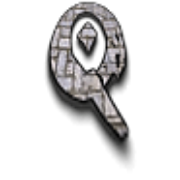
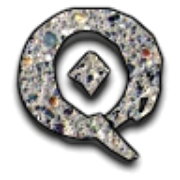
Add introductory content.

diff --git a/index.html b/index.html
@@ -22,9 +22,31 @@
 <body>
   <main>
     <article>
-      <h1>Quendor</h1>
+      <h1>
+        <img src="./assets/images/quendor-title.png" width="543" height="96" alt="Quendor">
+      </h1>
 
-      <p>Content Coming Soon</p>
+      <p>
+        My goal with Quendor is creating a working emulator of the <a href="https://en.wikipedia.org/wiki/Z-machine">Z-Machine</a> and an interpreter for <a href="http://fileformats.archiveteam.org/wiki/Z-code">zcode</a> programs that will run on that machine. This means I will be building an <a href="http://www.ifwiki.org/index.php/Interpreter">interactive fiction interpreter</a>. Depending on your age and/or nostalgia factor, you might better know "interactive fiction" by the name "text adventure."
+      </p>
+
+      <p class="note">
+        Fun fact for nostalgia retrogamers: the term <a href="https://en.wikipedia.org/wiki/Interactive_fiction">"interactive fiction"</a> was likely first used by <a href="https://en.wikipedia.org/wiki/Robert_Lafore">Robert Lafore</a>.
+      </p>
+
+      <p>
+        The Z-Machine was originally created by a company called <a href="https://en.wikipedia.org/wiki/Infocom">Infocom</a> back in the late 1970s to play their adventure game <a href="https://en.wikipedia.org/wiki/Zork"><em>Zork</em></a> on microcomputers (which were the first <a href="https://en.wikipedia.org/wiki/Personal_computer">"personal computers"</a> with a side evolution into <a href="https://en.wikipedia.org/wiki/Home_computer">"home computers"</a>). Eventually, this Z-Machine was used to play many text adventure games created by the same company throughout the 1980s.
+      </p>
+
+      <img class="prop50" src="./assets/images/infocom-games.jpg" width="640" height="480" alt="Infocom logo with backsplash of their games">
+
+      <p>
+        Starting in the 1990s, after Infocom was acquired by <a href="https://en.wikipedia.org/wiki/Activision">Activision</a> and effectively dissolved, hobbyists reverse-engineered the Z-Machine and games have been created for it ever since.
+      </p>
+
+      <p class="note">
+        These "games" are often referred to as "stories," keeping with the focus on interactive <em>fiction</em>.
+      </p>
     </article>
   </main>
 </body>

diff --git a/styles/content.css b/styles/content.css
@@ -12,3 +12,87 @@ article {
   padding: 0 var(--content-padding);
   margin: 2rem auto 3rem;
 }
+
+em {
+  font-weight: 400;
+  font-style: italic;
+}
+
+strong {
+  font-weight: 700;
+  font-style: normal;
+}
+
+strong em,
+em strong {
+  font-weight: 700;
+  font-style: italic;
+}
+
+p,
+li,
+blockquote {
+  text-align: justify;
+  text-wrap: pretty;
+  margin-bottom: 1.5rem;
+}
+
+img {
+  margin: 1.8em auto;
+}
+
+img.prop30 {
+  width: 30%;
+  height: auto;
+}
+
+img.prop40 {
+  width: 40%;
+  height: auto;
+}
+
+img.prop50 {
+  width: 50%;
+  height: auto;
+}
+
+img.prop60 {
+  width: 60%;
+  height: auto;
+}
+
+img.prop70 {
+  width: 70%;
+  height: auto;
+}
+
+img.prop80 {
+  width: 80%;
+  height: auto;
+}
+
+a:not([class]) {
+  text-decoration-thickness: max(0.08em, 1px);
+  text-underline-offset: 0.25em;
+  text-decoration-skip-ink: auto;
+}
+
+.note {
+  margin: 1.9em;
+  padding: 0.5em 0.8em;
+  border: 1px solid hsla(234.86, 30.97%, 55.69%, 1);
+  border-radius: 16px;
+  color: var(--clr-note);
+}
+
+.tip {
+  margin: 1.9em;
+  padding: 0.5em 0.8em;
+  border: 1px solid hsla(340, 50%, 80%, 1);
+  border-radius: 16px;
+  color: var(--clr-tip);
+}
+
+:where(p, blockquote, img, pre, ul, ol) + p:not(.tip):not(.note) {
+  text-indent: var(--para-indent);
+}

diff --git a/styles/root.css b/styles/root.css
@@ -1,6 +1,7 @@
 :root {
   --ff-base: "Montserrat", sans-serif;
   --ff-heading: "Kyiv Sans", sans-serif;
+  --ff-mono: "Roboto Mono", monospace;
 
   /*
     fs-200: Small text (captions, fine print)
@@ -27,6 +28,11 @@
   --word-spacing: 0.05em;
   --content-width: 65ch;
   --content-padding: clamp(1rem, 5vw, 2rem);
+
+  --clr-note: hsla(222.13, 23.38%, 39.41%, 1);
+  --clr-tip: hsla(340, 50%, 25%, 1);
+
+  --para-indent: 0.8em;
 
   color-scheme: light dark;
   font-family: system-ui, Avenir, Helvetica, Arial, sans-serif;
